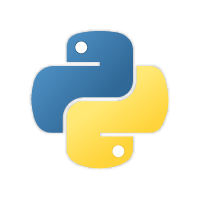
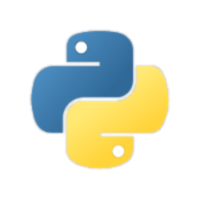
Cleaned up image size

diff --git a/templates/index.html b/templates/index.html
@@ -85,9 +85,9 @@
         <p class="text-secondary px-5 lead">Web framework using Python to develop quick and easy web applications.</p>
       </div>
       <div class="col-lg-4 col-md-6 col-sm-12 mb-5">
-        <img class="mb-4" src="../static/profile/MySQL.png" height="200px" width="250px">
-        <h2 class="h5 mb-2">MySQL</h2>
-        <p class="text-secondary px-5 lead">Relational database management system used for storing data.</p>
+        <img class="mb-4" src="../static/profile/Bootstrap.png" height="200px">
+        <h2 class="h5 mb-2">Bootstrap</h2>
+        <p class="text-secondary px-5 lead">Toolkit framework for designing building responsive web apps.</p>
       </div>
       <div class="col-lg-4 col-md-6 col-sm-12 mb-5">
         <img class="mb-4" src="../static/profile/DeepDetect.png" height="100px" width="225px">
@@ -98,6 +98,11 @@
         <img class="mb-4" src="../static/profile/DarkNetYolo.png" height="100px">
         <h2 class="h5 mb-2">DarkNet Yolo</h2>
         <p class="text-secondary px-5 lead">Real-time object detection system used for video recognition.</p>
+      </div>
+      <div class="col-lg-4 col-md-6 col-sm-12 mb-5">
+        <img class="mb-4" src="../static/profile/MySQL.png" height="100px">
+        <h2 class="h5 mb-2">MySQL</h2>
+        <p class="text-secondary px-5 lead">Relational database management system used for storing data.</p>
       </div>
     </div>
   </div>
